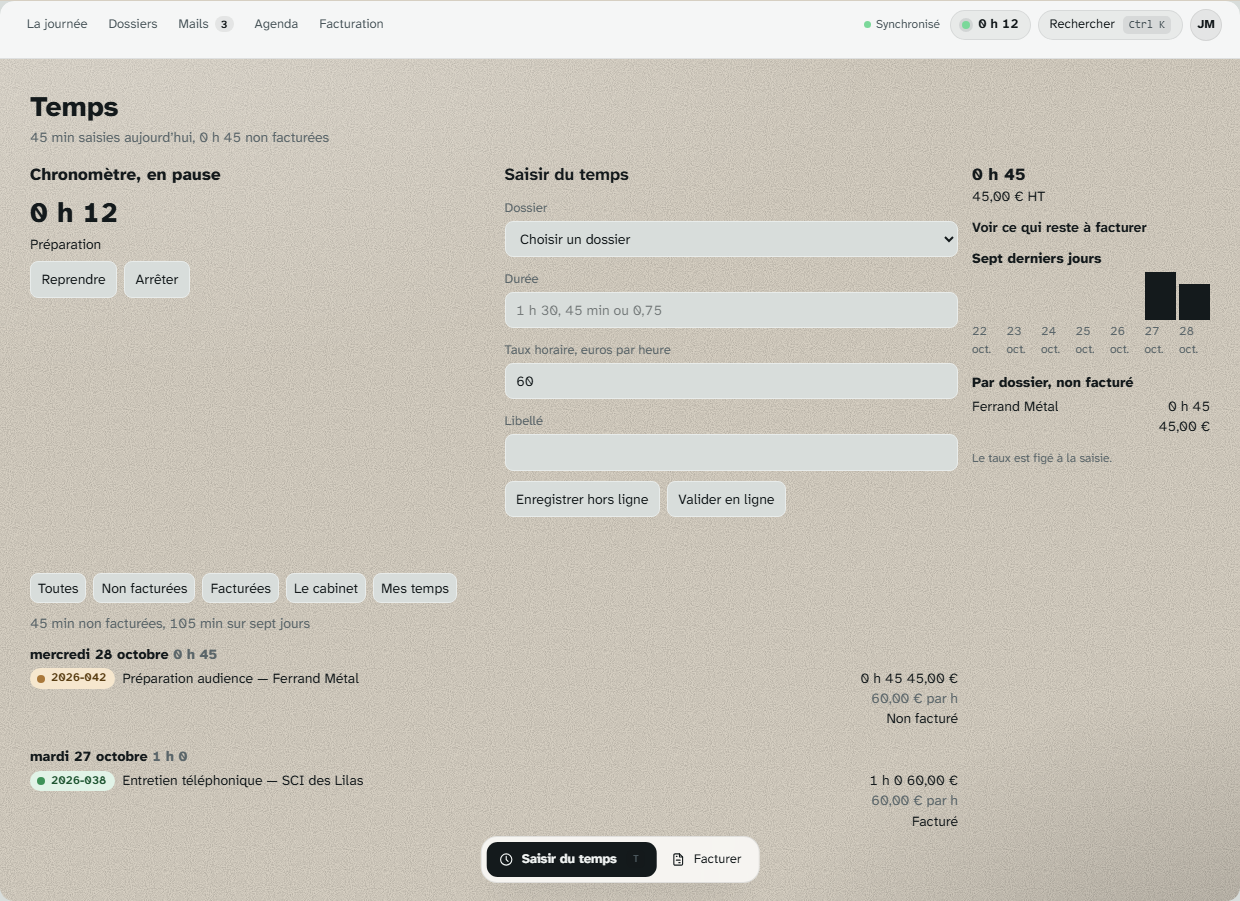
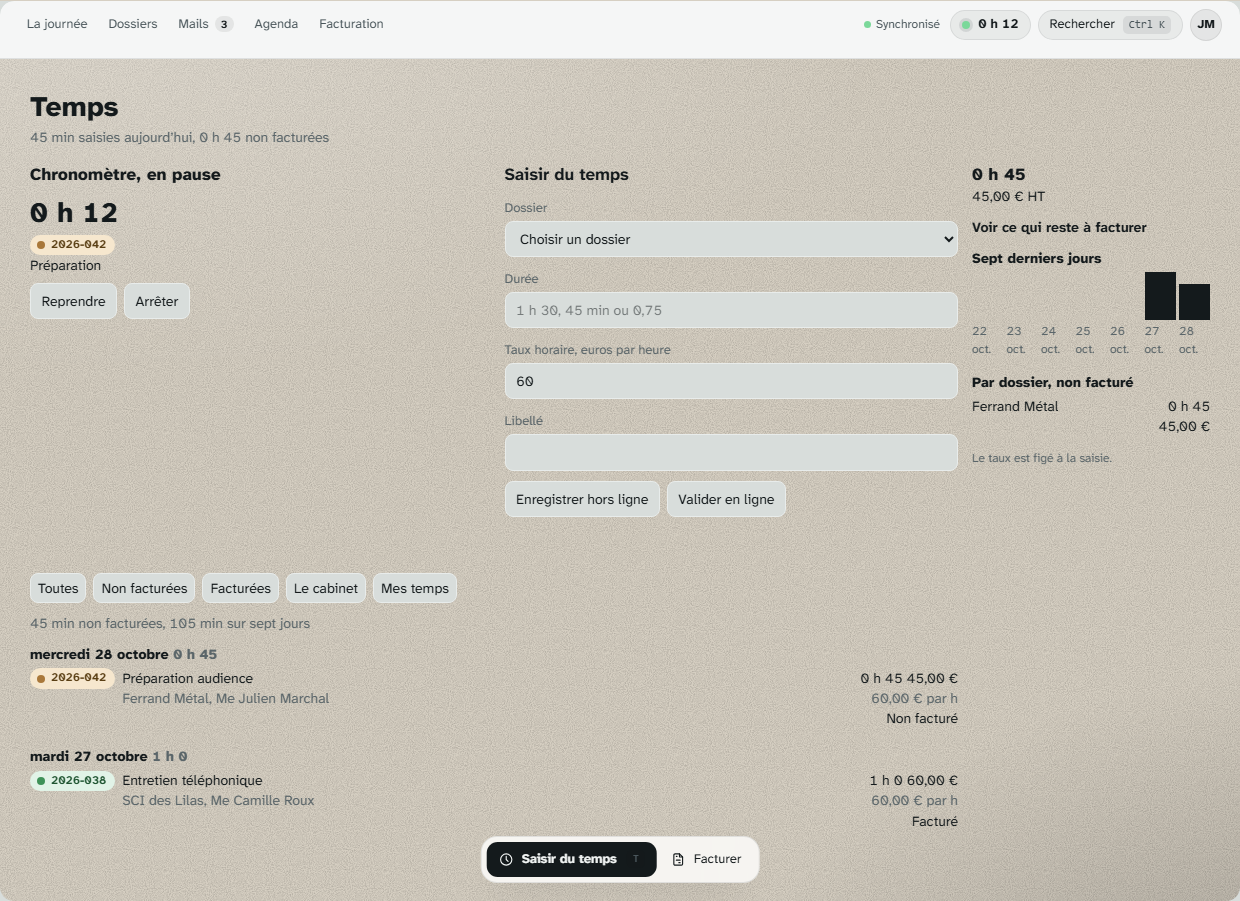
poste: la ligne de temps nomme l'intervenant deja enregistre.

diff --git a/apps/poste/src/screens/EcranTemps.tsx b/apps/poste/src/screens/EcranTemps.tsx
@@ -49,6 +49,7 @@ type LigneSql = {
   dossier_nom: string | null;
   dossier_chemise: string | null;
   dossier_reference: string | null;
+  intervenant_nom: string | null;
 };
 
 const FILTRES: { id: FiltreSaisie; label: string }[] = [
@@ -82,9 +83,11 @@ export function EcranTemps({
           const temps = await database.getAll<LigneSql>(
             `SELECT t.id, t.cree_le, t.minutes, t.libelle, t.dossier_id, t.intervenant_id,
                     t.taux_centimes_heure, t.ht_centimes, d.nom AS dossier_nom,
-                    d.chemise AS dossier_chemise, d.reference AS dossier_reference
+                    d.chemise AS dossier_chemise, d.reference AS dossier_reference,
+                    u.display_name AS intervenant_nom
              FROM temps_saisis t
-             LEFT JOIN dossiers d ON d.id = t.dossier_id`,
+             LEFT JOIN dossiers d ON d.id = t.dossier_id
+             LEFT JOIN users u ON u.id = t.intervenant_id`,
           );
           const factures = await database.getAll<{ temps_id: string }>(
             "SELECT temps_id FROM brouillons_facture WHERE numero IS NOT NULL",
@@ -103,6 +106,7 @@ export function EcranTemps({
                 : undefined,
             reference: ligne.dossier_reference,
             intervenantId: ligne.intervenant_id,
+            intervenantNom: ligne.intervenant_nom ?? undefined,
             tauxCentimesHeure: ligne.taux_centimes_heure,
             htCentimes: ligne.ht_centimes,
             facturee: facturesIds.has(ligne.id),
@@ -130,6 +134,7 @@ export function EcranTemps({
   const groupes = useMemo(() => grouperParJour(visibles), [visibles]);
   const resume = useMemo(() => resumeTemps(lignes, aujourdhui), [lignes, aujourdhui]);
   const volet = useMemo(() => voletTemps(lignes, aujourdhui), [lignes, aujourdhui]);
+  const dossierChrono = lignes.find((ligne) => ligne.dossierId === chrono.dossierId && ligne.chemise);
   const minutesArret = minutesConfirmees(chrono);
 
   async function enregistrerChrono() {
@@ -178,6 +183,12 @@ export function EcranTemps({
           <p className="text-[length:var(--font-size-journee)] font-extrabold tabular-nums">
             {formatDuree(chrono.secondes)}
           </p>
+          {dossierChrono?.chemise ? (
+            <span className="mails-dos" data-testid="chrono-dossier" data-chemise={dossierChrono.chemise}>
+              <i aria-hidden />
+              {fr(libelleReferenceDossier(dossierChrono.reference))}
+            </span>
+          ) : null}
           {chrono.libelle !== "" ? <p>{fr(chrono.libelle)}</p> : null}
           {chrono.phase === "arrete" ? (
             <button
@@ -310,9 +321,15 @@ export function EcranTemps({
                             {fr(libelleReferenceDossier(ligne.reference))}
                           </span>
                         ) : null}
-                        <span className="truncate">
-                          {fr(ligne.libelle)}
-                          {ligne.dossierNom !== "" ? fr(` — ${ligne.dossierNom}`) : ""}
+                        <span className="min-w-0 truncate">
+                          <span className="block truncate">{fr(ligne.libelle)}</span>
+                          {ligne.dossierNom !== "" || ligne.intervenantNom ? (
+                            <span className="block truncate text-graphite">
+                              {fr(
+                                [ligne.dossierNom, ligne.intervenantNom ?? ""].filter((partie) => partie !== "").join(", "),
+                              )}
+                            </span>
+                          ) : null}
                         </span>
                       </span>
                       <span className="text-right">

diff --git a/apps/poste/src/screens/GalerieDemo.tsx b/apps/poste/src/screens/GalerieDemo.tsx
@@ -176,6 +176,7 @@ export function GalerieDemo() {
         reference: "2026-042",
         chemise: "kraft" as const,
         intervenantId: "demo-moi",
+        intervenantNom: "Me Julien Marchal",
         tauxCentimesHeure: taux,
         htCentimes: htTempsCentimes(45, taux),
         facturee: false,
@@ -190,6 +191,7 @@ export function GalerieDemo() {
         reference: "2026-038",
         chemise: "vert-amande" as const,
         intervenantId: "autre",
+        intervenantNom: "Me Camille Roux",
         tauxCentimesHeure: taux,
         htCentimes: htTempsCentimes(60, taux),
         facturee: true,
@@ -637,6 +639,11 @@ export function GalerieDemo() {
           sync={{ kind: "synchronise" }}
           chronoSecondes={
             vue === "temps" ? chronoTemps.secondes : vue === "dossier" ? 12 * 60 + 4 : undefined
+          }
+          chronoTitre={
+            vue === "temps"
+              ? fr("Chronomètre en pause sur 2026-042")
+              : undefined
           }
           onChrono={vue === "temps" || vue === "dossier" ? () => undefined : undefined}
           onPalette={() => undefined}

diff --git a/apps/poste/src/facturation/listeTemps.ts b/apps/poste/src/facturation/listeTemps.ts
@@ -14,6 +14,7 @@ export type SaisieTemps = {
   reference?: string | null;
   chemise?: ChemiseId;
   intervenantId: string;
+  intervenantNom?: string;
   tauxCentimesHeure: number;
   htCentimes: number;
   facturee: boolean;

diff --git a/JOURNAL.md b/JOURNAL.md
@@ -74,4 +74,6 @@ Synthèse au 28/10/2026 (archives : `docs/journal/phase-0.md`, `phase-1.md`, `ph
 
 - **Finition, CI (28/10).** Le job rust de [40688866767](https://github.com/navelremi-boop/legalos2/actions/runs/40688866767) (`5e5a71b`) a d'abord échoué : `install_demarre_en_production_sans_demo`, l'instance ne répond pas. Relance du job : exit 0, rust et s1 verts. La CI de `3ae7bac` [40692356106](https://github.com/navelremi-boop/legalos2/actions/runs/40692356106) est verte (frontend, gouvernance, périmètre) ; rust et s1 sont sautés, le commit ne touche que le journal. Le jalon n'est pas coché.
 
-**Prochaine action.** Le contrôleur de fin de jalon attend encore : la comparaison visuelle reste un refus, l'intervenant n'est pas une liste livrée, la suggestion de temps reste sur l'écran Mails. Le jalon n'est pas coché.
+- **Finition, nom sur la ligne (28/10).** La ligne de temps montre le nom déjà enregistré de l'intervenant. Le chronomètre en cours porte la référence du dossier. Pas de liste pour choisir un autre intervenant. `node tests/recette/coque-app.mjs --captures` exit 0. eslint et typecheck : exit 0.
+
+**Prochaine action.** Nouvelle comparaison visuelle de Temps. Le jalon n'est pas coché.
